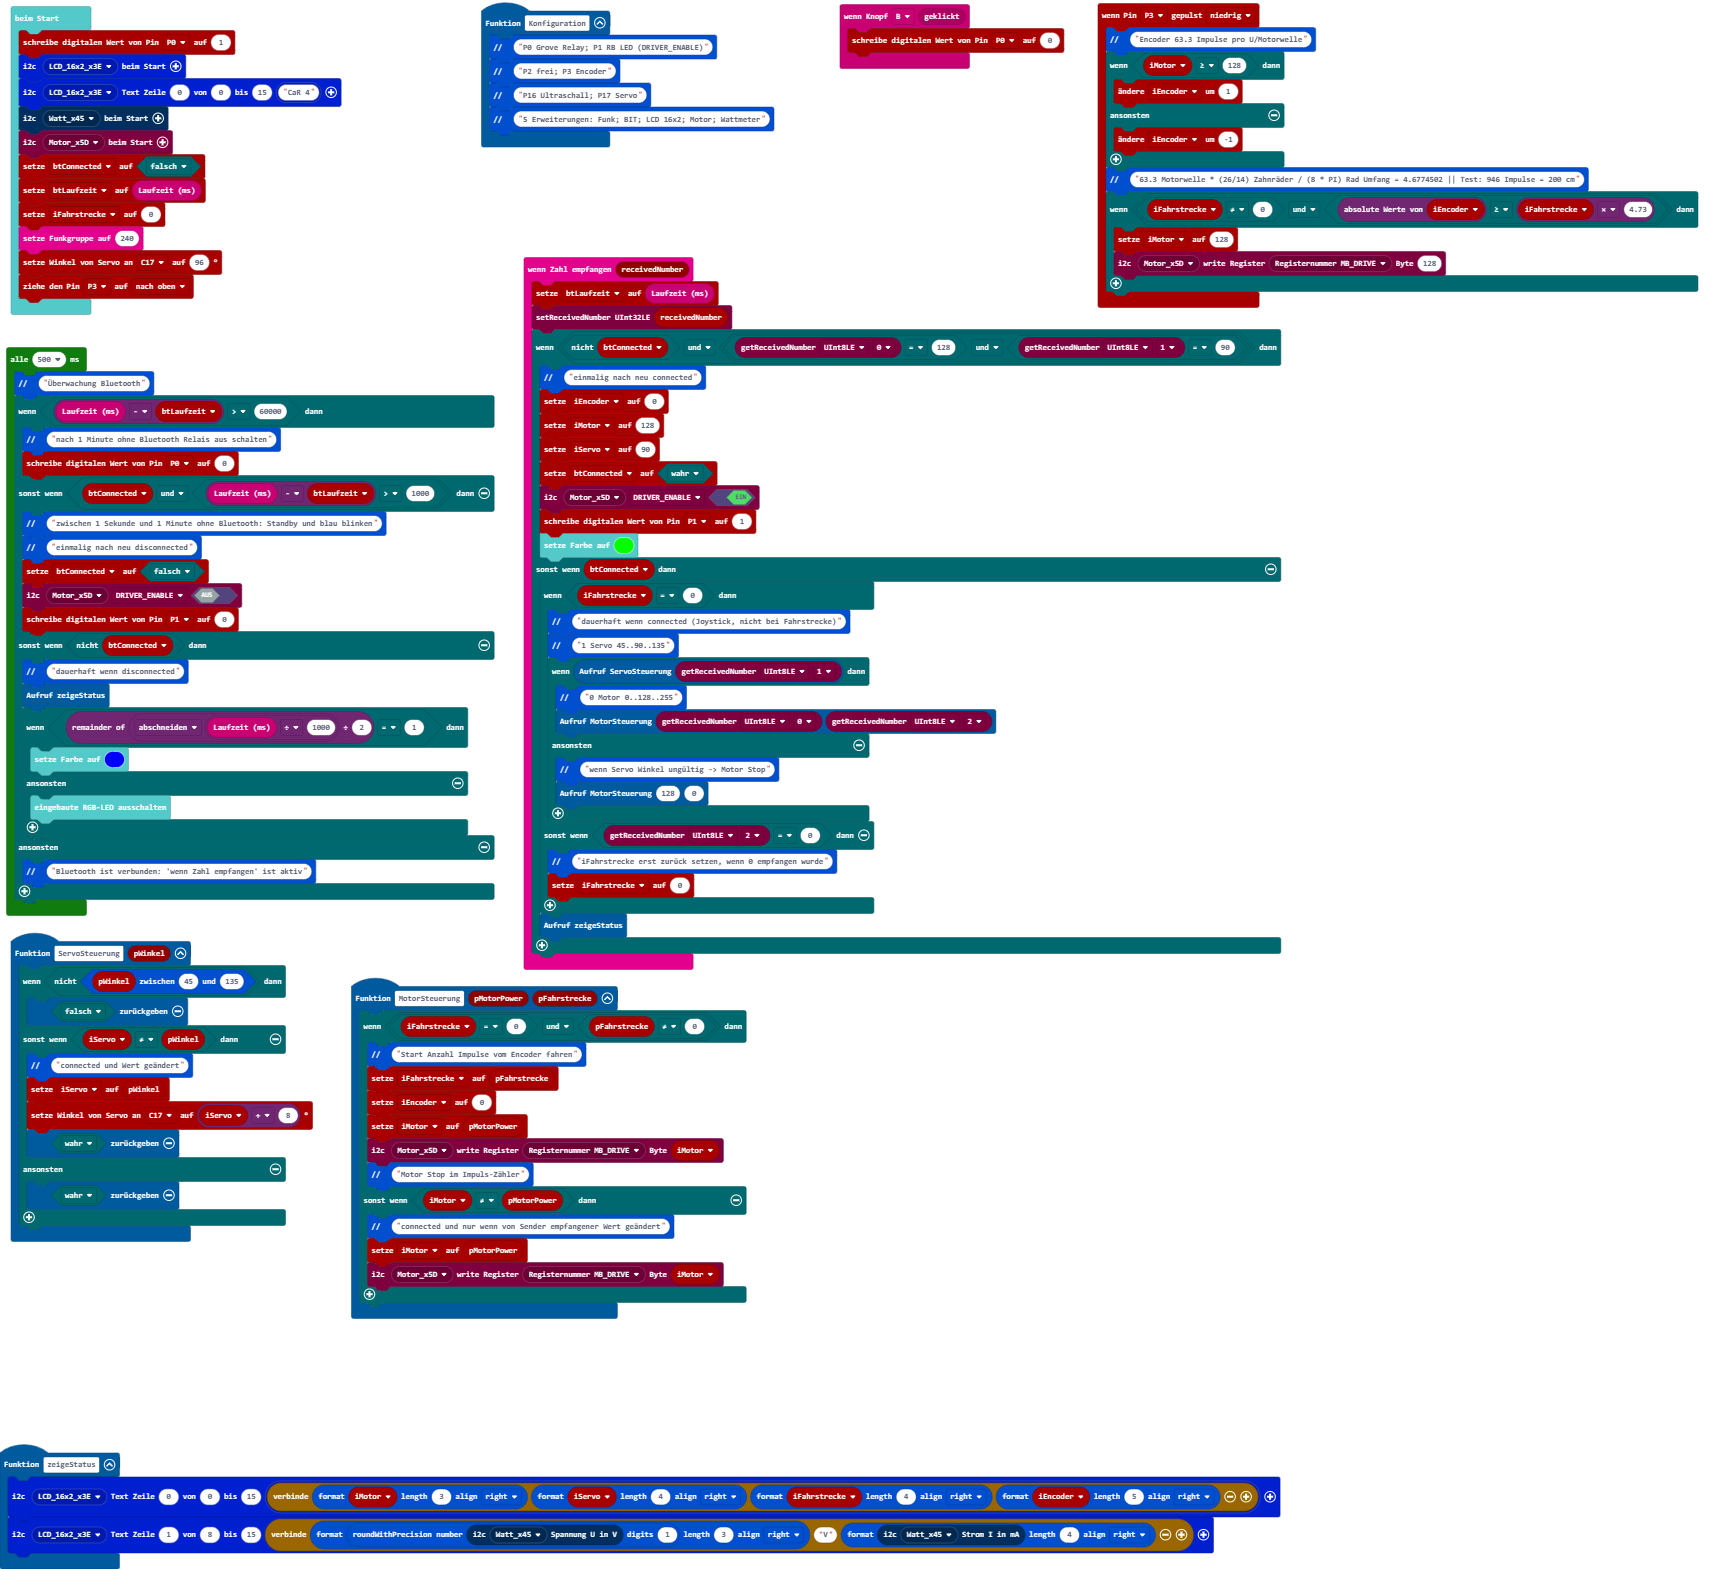
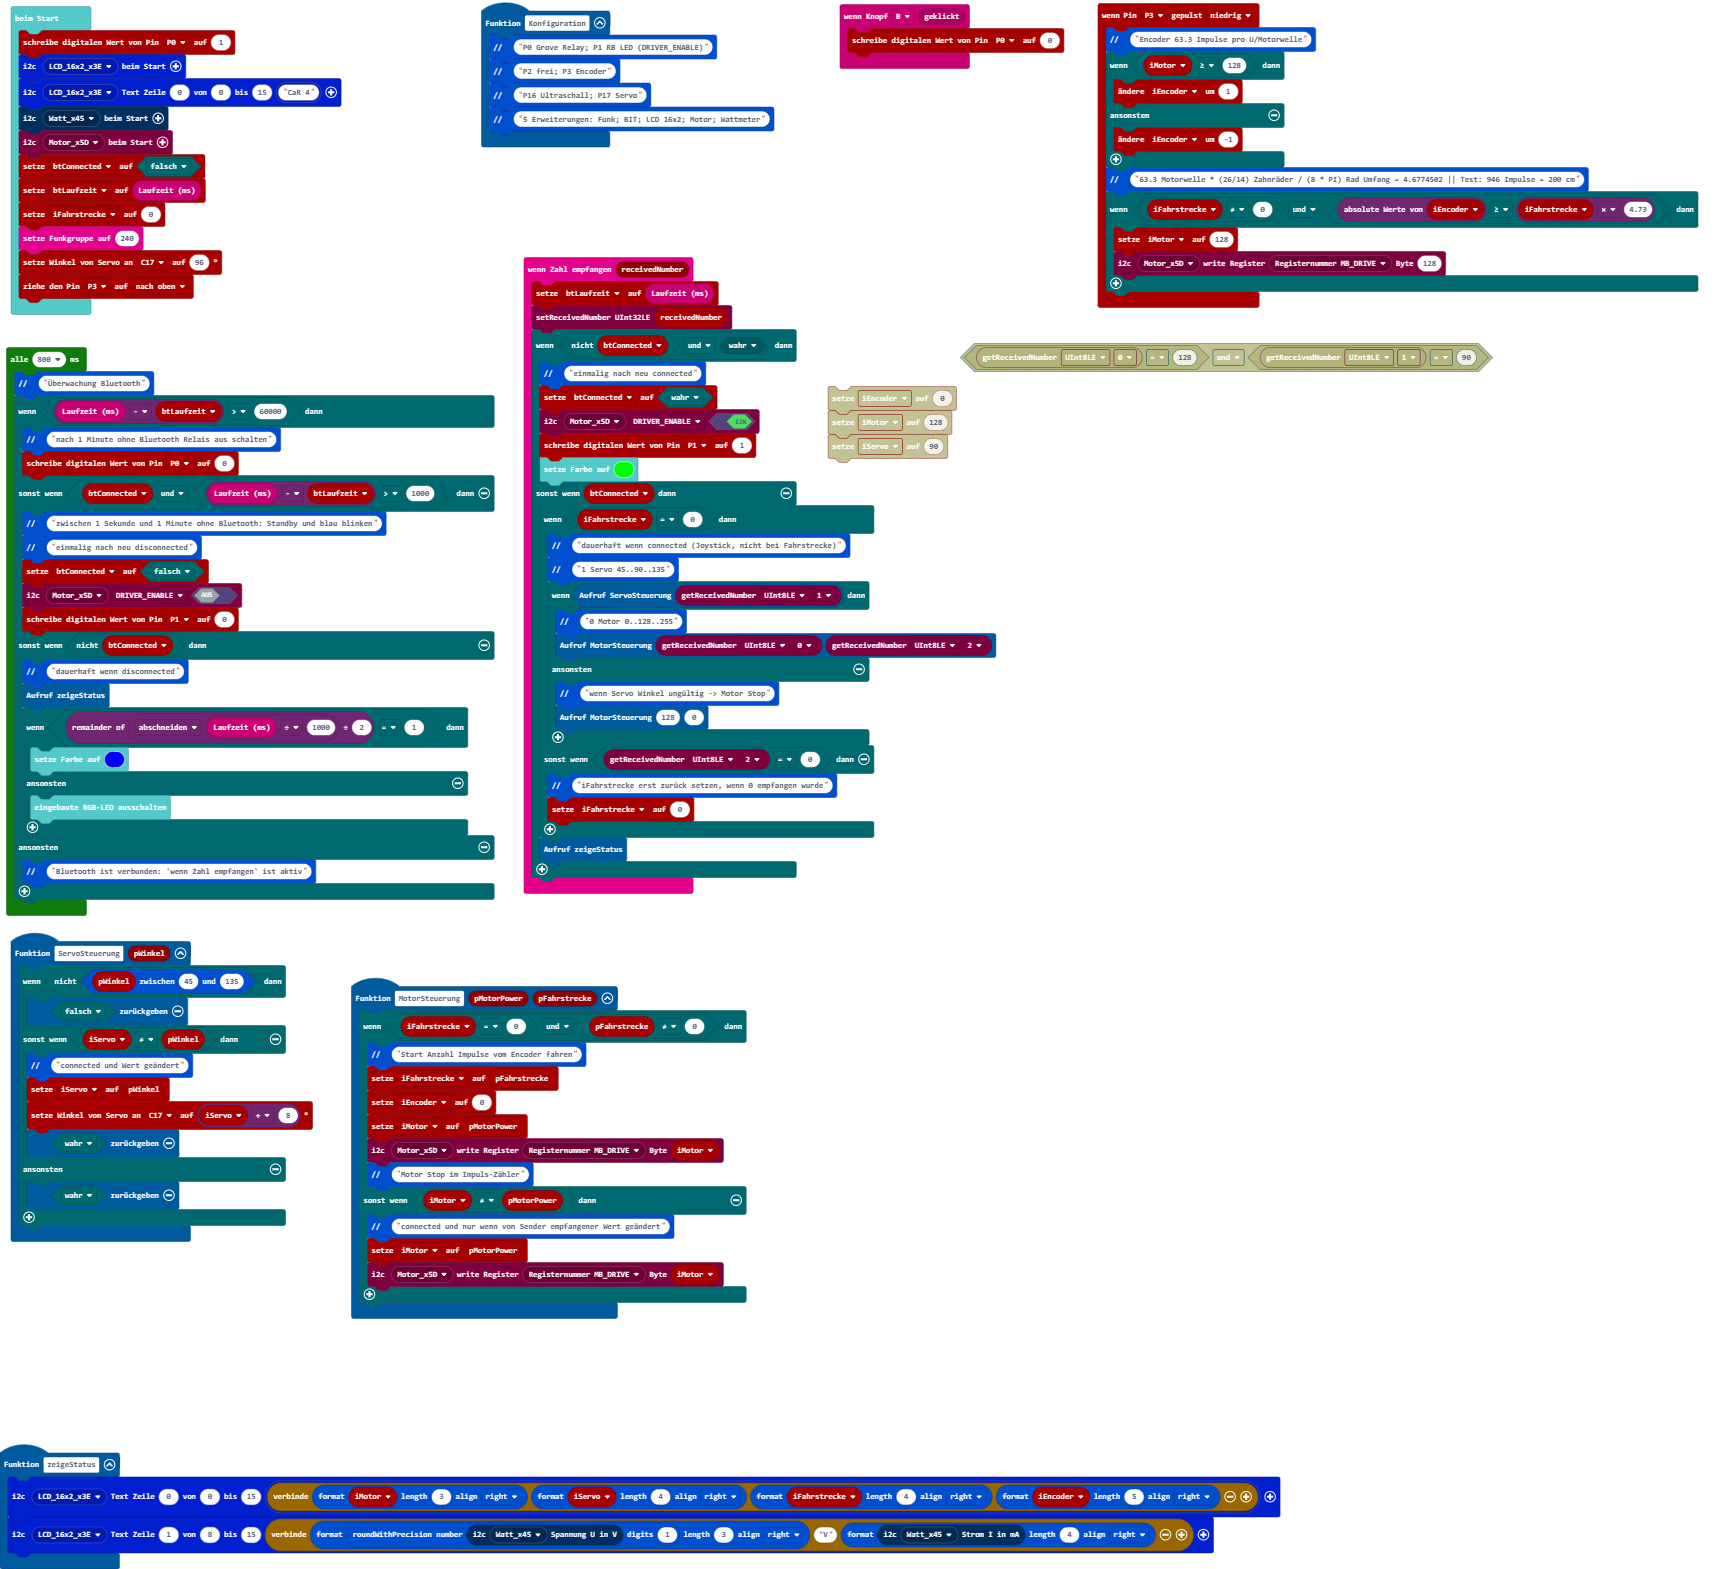
Aktualisiere main.blocks, main.ts

Changed region(s): [[0.2767, 0.1874, 0.8608, 0.6246]]

diff --git a/main.ts b/main.ts
@@ -1,11 +1,8 @@
 radio.onReceivedNumber(function (receivedNumber) {
     btLaufzeit = input.runningTime()
     qwiicmotor.setReceivedNumber(receivedNumber)
-    if (!(btConnected) && (qwiicmotor.getReceivedNumber(NumberFormat.UInt8LE, qwiicmotor.eOffset.z0) == 128 && qwiicmotor.getReceivedNumber(NumberFormat.UInt8LE, qwiicmotor.eOffset.z1) == 90)) {
+    if (!(btConnected) && true) {
         bit.comment("einmalig nach neu connected")
-        iEncoder = 0
-        iMotor = 128
-        iServo = 90
         btConnected = true
         qwiicmotor.controlRegister(qwiicmotor.qwiicmotor_eADDR(qwiicmotor.eADDR.Motor_x5D), qwiicmotor.eControl.DRIVER_ENABLE, true)
         pins.digitalWritePin(DigitalPin.P1, 1)
@@ -81,8 +78,8 @@ function ServoSteuerung (pWinkel: number) {
     }
 }
 let iServo = 0
-let iMotor = 0
 let iEncoder = 0
+let iMotor = 0
 let iFahrstrecke = 0
 let btLaufzeit = 0
 let btConnected = false
@@ -97,7 +94,7 @@ iFahrstrecke = 0
 radio.setGroup(240)
 pins.servoWritePin(AnalogPin.C17, 96)
 pins.setPull(DigitalPin.P3, PinPullMode.PullUp)
-loops.everyInterval(500, function () {
+loops.everyInterval(800, function () {
     bit.comment("Überwachung Bluetooth")
     if (input.runningTime() - btLaufzeit > 60000) {
         bit.comment("nach 1 Minute ohne Bluetooth Relais aus schalten")
